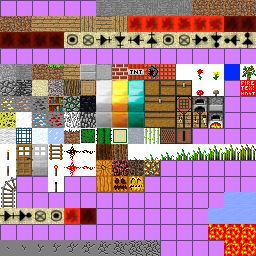
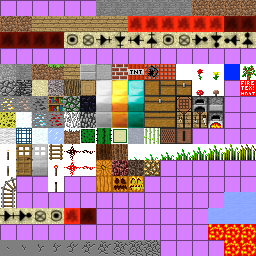
dont rotate normal blocks

diff --git a/arrange-terrain.py b/arrange-terrain.py
@@ -57,7 +57,9 @@ def rotate(ai, aj):
 
 def pack(x, y=None, z=None):
     global slot
+    doRotate = True
     if y is None:
+        doRotate = False
         y = x
     if z is None:
         z = x
@@ -68,12 +70,13 @@ def pack(x, y=None, z=None):
     copy((z % 16, (z // 16) + 4), ((slot + 4) % 16, (slot + 4) // 16))
     copy((z % 16, (z // 16) + 4), ((slot + 5) % 16, (slot + 5) // 16))
 
-    rotate((slot + 3) % 16, (slot + 3) // 16)
-    rotate((slot + 4) % 16, (slot + 4) // 16)
-    rotate((slot + 4) % 16, (slot + 4) // 16)
-    rotate((slot + 5) % 16, (slot + 5) // 16)
-    rotate((slot + 5) % 16, (slot + 5) // 16)
-    rotate((slot + 5) % 16, (slot + 5) // 16)
+    if doRotate:
+        rotate((slot + 3) % 16, (slot + 3) // 16)
+        rotate((slot + 4) % 16, (slot + 4) // 16)
+        rotate((slot + 4) % 16, (slot + 4) // 16)
+        rotate((slot + 5) % 16, (slot + 5) // 16)
+        rotate((slot + 5) % 16, (slot + 5) // 16)
+        rotate((slot + 5) % 16, (slot + 5) // 16)
     slot += 6
 
 pack(1) # stone
